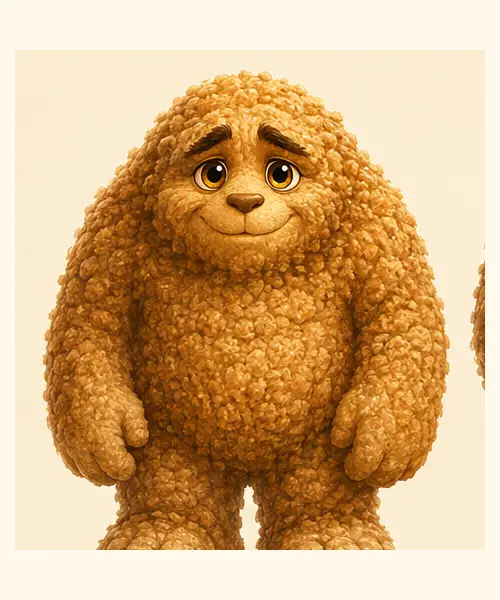
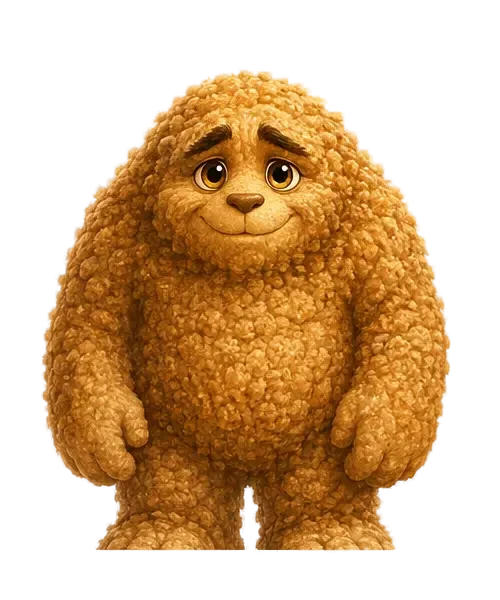
Polish world maps, backdrops, and character cutouts

Changed region(s): [[0.03, 0.06, 0.99, 0.93], [0.48, 0.81, 0.54, 0.93]]

diff --git a/src/styles/world-experience.css b/src/styles/world-experience.css
@@ -42,27 +42,53 @@
   height: 110%;
   object-fit: cover;
   object-position: center;
-  filter: saturate(1.05) brightness(.48) contrast(1.04);
-  animation: livingWorldDrift 28s ease-in-out infinite alternate;
+  filter: saturate(1.04) brightness(.56) contrast(1.04);
+  animation: livingWorldDrift 42s ease-in-out infinite alternate;
 }
-.living-world__veil { position: absolute; inset: 0; background: linear-gradient(180deg, rgba(3,8,18,.1), rgba(3,8,18,.66) 58%, rgba(3,8,18,.9)); }
-.living-world__glow,
-.living-world__drift { position: absolute; border-radius: 50%; filter: blur(22px); opacity: .38; pointer-events: none; }
-.living-world__glow { width: 30vw; height: 30vw; min-width: 240px; min-height: 240px; animation: livingGlow 9s ease-in-out infinite alternate; }
-.living-world__glow--one { left: 8%; top: 14%; }
-.living-world__glow--two { right: 4%; top: 48%; animation-delay: -4s; }
-.living-world__drift { width: 42vw; height: 8vw; min-height: 80px; filter: blur(30px); animation: livingDrift 18s linear infinite alternate; }
-.living-world__drift--one { left: -8%; top: 34%; }
-.living-world__drift--two { right: -10%; top: 68%; animation-delay: -8s; }
-.living-world--snackville .living-world__glow { background: rgba(255,113,143,.28); }
-.living-world--snackville .living-world__drift { background: rgba(255,221,167,.12); }
-.living-world--sandwich .living-world__glow { background: rgba(193,143,255,.28); }
-.living-world--sandwich .living-world__drift { background: rgba(255,242,218,.16); }
-.living-world--crumbhollow .living-world__glow { background: rgba(255,161,61,.26); }
-.living-world--crumbhollow .living-world__drift { height: 3px; min-height: 3px; border-radius: 0; background: rgba(63,211,205,.3); filter: blur(8px); }
-@keyframes livingWorldDrift { from { transform: scale(1.01) translate3d(-1.2%, -.5%, 0); } to { transform: scale(1.08) translate3d(1.2%, 1%, 0); } }
-@keyframes livingGlow { from { opacity: .22; transform: scale(.86); } to { opacity: .5; transform: scale(1.12); } }
-@keyframes livingDrift { from { transform: translate3d(-4%, 0, 0); opacity: .14; } to { transform: translate3d(6%, 0, 0); opacity: .42; } }
+.living-world__veil { position: absolute; inset: 0; z-index: 3; background: linear-gradient(180deg, rgba(3,8,18,.12), rgba(3,8,18,.57) 54%, rgba(3,8,18,.88)); }
+.living-world__atmosphere {
+  position: absolute;
+  inset: -12%;
+  z-index: 4;
+  opacity: .2;
+  background: linear-gradient(108deg, transparent 28%, rgba(255,244,214,.2) 46%, transparent 64%);
+  mix-blend-mode: screen;
+  animation: livingLight 24s ease-in-out infinite alternate;
+}
+.living-world__actors { position: absolute; inset: 0; z-index: 2; overflow: hidden; }
+.living-world__actor {
+  position: absolute;
+  display: block;
+  width: clamp(92px, 10vw, 170px);
+  height: auto;
+  opacity: 0;
+  filter: saturate(.92) brightness(.72) drop-shadow(0 12px 18px rgba(0,0,0,.48));
+  will-change: transform, opacity;
+}
+.living-world__actor--fly-left { top: 16%; right: -22%; width: clamp(130px,15vw,240px); animation: worldFlyLeft 34s linear infinite; animation-delay: -6s; }
+.living-world__actor--fly-left-late { top: 34%; right: -22%; width: clamp(112px,12vw,200px); animation: worldFlyLeft 41s linear infinite; animation-delay: -25s; }
+.living-world__actor--walk-right { bottom: 5%; left: -16%; animation: worldWalkRight 37s linear infinite; animation-delay: -9s; }
+.living-world__actor--walk-left { bottom: 7%; right: -16%; animation: worldWalkLeft 43s linear infinite; animation-delay: -28s; }
+@keyframes livingWorldDrift { from { transform: scale(1.015) translate3d(-.5%, -.25%, 0); } to { transform: scale(1.045) translate3d(.65%, .45%, 0); } }
+@keyframes livingLight { from { transform: translate3d(-8%,0,0); opacity: .1; } to { transform: translate3d(8%,0,0); opacity: .24; } }
+@keyframes worldFlyLeft {
+  0%,12% { transform: translate3d(0,0,0) rotate(-2deg); opacity: 0; }
+  16% { opacity: .62; }
+  40% { opacity: .62; }
+  46%,100% { transform: translate3d(-135vw,-9vh,0) rotate(3deg); opacity: 0; }
+}
+@keyframes worldWalkRight {
+  0%,15% { transform: translate3d(0,0,0); opacity: 0; }
+  19% { opacity: .56; }
+  45% { opacity: .56; }
+  51%,100% { transform: translate3d(132vw,0,0); opacity: 0; }
+}
+@keyframes worldWalkLeft {
+  0%,18% { transform: translate3d(0,0,0); opacity: 0; }
+  22% { opacity: .54; }
+  48% { opacity: .54; }
+  54%,100% { transform: translate3d(-132vw,0,0); opacity: 0; }
+}
 
 .snackville-experience { position: relative; isolation: isolate; }
 .snackville-experience .living-world { z-index: 0; opacity: .28; }
@@ -295,8 +321,12 @@
     height: min(100svh, 900px);
   }
   .living-world > img,
-  .living-world__glow,
-  .living-world__drift { animation: none; }
+  .living-world__atmosphere { animation: none; }
+  .living-world__actor { width: 82px; filter: saturate(.9) brightness(.66) drop-shadow(0 8px 12px rgba(0,0,0,.45)); }
+  .living-world__actor--secondary { display: none; }
+  .living-world__actor--fly-left { top: 24%; width: 118px; animation-duration: 38s; }
+  .living-world__actor--walk-left,
+  .living-world__actor--walk-right { bottom: 4%; animation-duration: 42s; }
   .world-experience__bar {
     position: relative;
     flex-wrap: wrap;
@@ -378,8 +408,9 @@
 
 @media (prefers-reduced-motion: reduce) {
   .living-world > img,
-  .living-world__glow,
-  .living-world__drift { animation: none; }
+  .living-world__atmosphere,
+  .living-world__actor { animation: none; }
+  .living-world__actor { display: none; }
 }
 
 @media (max-width: 390px) {

diff --git a/src/styles/cinematic.css b/src/styles/cinematic.css
@@ -690,26 +690,6 @@ a { -webkit-tap-highlight-color: transparent; }
   box-shadow: 0 26px 64px rgba(0,0,0,.38), 0 0 0 6px rgba(216,170,88,.04);
 }
 .map-f img { width: 100%; height: 100%; object-fit: cover; }
-.map-label-correction {
-  position: absolute;
-  left: var(--label-x);
-  top: var(--label-y);
-  z-index: 2;
-  display: grid;
-  align-content: center;
-  width: var(--label-width);
-  min-height: var(--label-height);
-  translate: -50% -50%;
-  padding: .35% .55%;
-  border: 1px solid rgba(91,52,25,.78);
-  border-radius: 999px;
-  background: rgba(239,210,151,.97);
-  color: #4e2b18;
-  box-shadow: inset 0 0 0 1px rgba(255,244,206,.55), 0 1px 3px rgba(25,12,5,.32);
-  text-align: center;
-  font: 700 clamp(3.2px,.68vw,10px)/1.05 var(--d);
-  pointer-events: none;
-}
 .map-f::after {
   content: '';
   position: absolute;
@@ -732,53 +712,15 @@ a { -webkit-tap-highlight-color: transparent; }
   border: 0;
   border-radius: 50%;
   background: transparent;
-  transition: scale .22s ease;
+  outline: 0 solid transparent;
+  outline-offset: -7px;
+  transition: outline-color .18s ease, outline-width .18s ease, background .18s ease;
 }
 .map-hotspot:hover,
-.map-hotspot.on {
-  scale: 1.08;
-}
-.map-hotspot__leader {
-  position: absolute;
-  left: 50%;
-  top: 50%;
-  width: 27px;
-  height: 1px;
-  transform: rotate(var(--marker-angle));
-  transform-origin: 0 50%;
-  background: linear-gradient(90deg, rgba(255,247,232,.82), rgba(255,247,232,.22));
-  filter: drop-shadow(0 1px 2px rgba(3,9,23,.9));
-}
-.map-hotspot__marker {
-  position: absolute;
-  left: 50%;
-  top: 50%;
-  display: grid;
-  place-items: center;
-  width: 26px;
-  height: 26px;
-  transform: translate(calc(-50% + var(--marker-shift)), calc(-50% - 19px));
-  border: 1px solid rgba(255,247,232,.92);
-  border-radius: 50%;
-  background: color-mix(in srgb, var(--hotspot-accent) 78%, #071126);
-  color: #fff8e9;
-  box-shadow: 0 2px 8px rgba(3,9,23,.82), 0 0 0 3px rgba(3,9,23,.5);
-  font: 700 10px/1 var(--u);
-}
-.map-hotspot:hover .map-hotspot__marker,
-.map-hotspot.on .map-hotspot__marker {
-  background: var(--gold-bright);
-  color: #081127;
-  box-shadow: 0 2px 8px rgba(3,9,23,.82), 0 0 0 3px rgba(3,9,23,.7), 0 0 0 5px rgba(243,208,138,.65), 0 0 22px rgba(243,208,138,.5);
-}
-.map-hotspot.seen .map-hotspot__marker {
-  outline: 2px solid rgba(255,247,232,.85);
-  outline-offset: 2px;
-}
-.map-hotspot.wow-spot .map-hotspot__marker { animation: mapWowPulse 2.6s ease-in-out infinite; }
-@keyframes mapWowPulse {
-  0%, 100% { box-shadow: 0 0 0 0 rgba(216,170,88,0); }
-  50% { box-shadow: 0 0 0 8px rgba(216,170,88,.22); }
+.map-hotspot:focus-visible {
+  outline-width: 2px;
+  outline-color: rgba(255,247,232,.9);
+  background: rgba(243,208,138,.12);
 }
 .map-pan-hint {
   display: none;
@@ -1275,19 +1217,6 @@ section.sec.wrap:has(> .panel .gu) { padding-top: clamp(54px, 6vw, 86px); }
   .map-scroll { border-radius: 7px; }
   .map-f { border-radius: 7px; }
   .map-hotspot { width: 48px; height: 48px; }
-  .map-f--fit .map-hotspot__leader { width: 16px; }
-  .map-f--fit .map-hotspot__marker {
-    width: 18px;
-    height: 18px;
-    transform: translate(calc(-50% + var(--marker-fit-shift)), calc(-50% - 12px));
-    border-width: 1px;
-    box-shadow: 0 1px 5px rgba(3,9,23,.9), 0 0 0 2px rgba(3,9,23,.55);
-    font-size: 8px;
-  }
-  .map-f--fit .map-hotspot:hover .map-hotspot__marker,
-  .map-f--fit .map-hotspot.on .map-hotspot__marker {
-    box-shadow: 0 1px 5px rgba(3,9,23,.9), 0 0 0 2px rgba(3,9,23,.65), 0 0 0 3px rgba(243,208,138,.65);
-  }
   .map-selection { grid-template-columns: 54px minmax(0,1fr); padding: 18px; border-radius: 8px; }
   .map-selection-number { width: 52px; height: 52px; font-size: 20px; }
   .map-selection h3 { font-size: 27px; }
@@ -1385,7 +1314,6 @@ section.sec.wrap:has(> .panel .gu) { padding-top: clamp(54px, 6vw, 86px); }
 
 @media (prefers-reduced-motion: reduce) {
   body::before { opacity: .45; }
-  .map-hotspot.wow-spot .map-hotspot__marker,
   .place-dialog-scrim,
   .place-dialog { animation: none; }
   .world-image img { animation: none; transition: none; }

diff --git a/src/components/WorldMap.jsx b/src/components/WorldMap.jsx
@@ -172,37 +172,17 @@ export function WorldMap({ places, mapSrc, mapAlt, mapWidth, mapHeight, eyebrow,
             style={{ aspectRatio: `${mapWidth} / ${mapHeight}`, width: fitMap ? "100%" : `${Number(mapWidth) * mapZoom}px` }}
           >
             <Img src={mapSrc} alt={mapAlt} fb="World map" width={mapWidth} height={mapHeight} />
-            {places.filter((place) => place.labelCorrection).map((place) => (
-              <span
-                key={`${place.id}-label-correction`}
-                className="map-label-correction"
-                style={{
-                  "--label-x": `${place.labelCorrection.x}%`,
-                  "--label-y": `${place.labelCorrection.y}%`,
-                  "--label-width": `${place.labelCorrection.width}%`,
-                  "--label-height": `${place.labelCorrection.height}%`,
-                }}
-                aria-hidden="true"
-              >
-                {place.labelCorrection.lines.map((line) => <span key={line}>{line}</span>)}
-              </span>
-            ))}
             {places.map((place) => (
               <button
                 key={place.id}
                 className={`map-hotspot ${selected.id === place.id ? "on" : ""} ${visited.has(place.id) ? "seen" : ""}`}
                 style={{
                   "--hotspot-x": `${place.x}%`, "--hotspot-y": `${place.y}%`, "--hotspot-accent": place.ink,
-                  "--marker-shift": place.x > 82 ? "-19px" : "19px",
-                  "--marker-fit-shift": place.x > 82 ? "-12px" : "12px",
-                  "--marker-angle": place.x > 82 ? "-135deg" : "-45deg",
                 }}
                 onClick={() => pick(place)}
                 aria-label={`Location ${place.n}: ${place.name}`}
                 aria-haspopup="dialog"
               >
-                <span className="map-hotspot__leader" aria-hidden="true" />
-                <span className="map-hotspot__marker" aria-hidden="true">{place.n}</span>
                 <span className="sr-only">Open {place.name}</span>
               </button>
             ))}

diff --git a/src/App.jsx b/src/App.jsx
@@ -404,7 +404,7 @@ function SnackvilleExperience({ onBackHome }) {
   return (
     <div ref={rootRef} className="snackville-experience" data-night="0">
       <a className="skip-link" href="#story">Skip to the story</a>
-      <LivingWorldBackdrop src="/images/worlds/snackville-cover.webp" variant="snackville" />
+      <LivingWorldBackdrop src="/images/worlds/snackville-environment.webp" variant="snackville" />
       {/* ═══ SKY — opacity written directly via ref in the scroll rAF loop,
           never through React state, so scrolling never re-renders the tree.
           See hooks/useScrollEngine.js. ═══ */}
@@ -582,11 +582,13 @@ export default function App() {
   if (view === "sandwich") {
     return (
       <WorldExperience
+        key="sandwich"
         worldClass="world-experience--sandwich"
         brandLabel="Wallace-Siedlarz Productions"
         title="Sandwich Kingdom"
         tagline="The floating sandwich-castle world above the clouds."
         coverSrc="/images/worlds/sandwich-cover.webp"
+        backgroundSrc="/images/worlds/sandwich-environment.webp"
         coverAlt="Sandwich Kingdom cover art — a floating sandwich castle above the clouds"
         story={{
           eyebrow: "Inside book six",
@@ -617,11 +619,13 @@ export default function App() {
   if (view === "crumbhollow") {
     return (
       <WorldExperience
+        key="crumbhollow"
         worldClass="world-experience--crumbhollow"
         brandLabel="Wallace-Siedlarz Productions"
         title="Crumbhollow"
         tagline="The hidden Pie-Rat village beneath Snackville."
         coverSrc="/images/worlds/crumbhollow-cover.webp"
+        backgroundSrc="/images/worlds/crumbhollow-environment.webp"
         coverAlt="Crumbhollow cover art — the hidden Pie-Rat village beneath Snackville"
         story={{
           eyebrow: "Beneath Snackville",

diff --git a/tests/content.test.js b/tests/content.test.js
@@ -102,7 +102,9 @@ test("each storyworld exposes its approved character cast", () => {
   for (const characters of [SNACKVILLE_CHARACTERS, CRUMBHOLLOW_CAST.people, SANDWICH_CAST.people]) {
     for (const person of characters) {
       assert.match(person.img, /^\/images\/characters\/.+\.webp$/);
-      assert.ok(existsSync(new URL(`../public${person.img}`, import.meta.url)), `${person.name} portrait exists`);
+      const portraitUrl = new URL(`../public${person.img}`, import.meta.url);
+      assert.ok(existsSync(portraitUrl), `${person.name} portrait exists`);
+      assert.ok(readFileSync(portraitUrl).includes(Buffer.from("ALPH")), `${person.name} portrait has real alpha transparency`);
       assert.ok(person.line.length > 30, `${person.name} has card copy`);
       assert.ok(person.bio.length > 60, `${person.name} has a full profile`);
       assert.ok(person.power.length > 25, `${person.name} has a power`);
@@ -141,6 +143,16 @@ test("map dialogs escape page stacking contexts", () => {
     assert.match(source, /createPortal/);
     assert.match(source, /document\.body/);
   }
+});
+
+test("map hotspots use the numbers printed in the original artwork", () => {
+  for (const file of ["MapHub.jsx", "WorldMap.jsx"]) {
+    const source = readFileSync(new URL(`../src/components/${file}`, import.meta.url), "utf8");
+    assert.doesNotMatch(source, /map-hotspot__marker/, `${file} does not paint duplicate location numbers`);
+    assert.doesNotMatch(source, /map-hotspot__leader/, `${file} does not draw extra marker leaders`);
+  }
+  const worldMap = readFileSync(new URL("../src/components/WorldMap.jsx", import.meta.url), "utf8");
+  assert.doesNotMatch(worldMap, /map-label-correction/, "Crumbhollow keeps the original illustration free of pasted label panels");
 });
 
 test("every map location has a signature effect, and no two are alike", () => {

diff --git a/src/components/LivingWorldBackdrop.jsx b/src/components/LivingWorldBackdrop.jsx
@@ -1,12 +1,37 @@
+const WORLD_ACTORS = {
+  snackville: [
+    { src: "/images/ambient/pepper-fly.webp", motion: "fly-left", secondary: false },
+    { src: "/images/ambient/choco-fly.webp", motion: "fly-left-late", secondary: true },
+  ],
+  crumbhollow: [
+    { src: "/images/ambient/grey-pie-rat-walk.webp", motion: "walk-right", secondary: false },
+    { src: "/images/ambient/woofer-walk.webp", motion: "walk-left", secondary: true },
+  ],
+  sandwich: [
+    { src: "/images/ambient/tomato-mouse-walk.webp", motion: "walk-left", secondary: false },
+    { src: "/images/ambient/sandwich-citizen-walk.webp", motion: "walk-right", secondary: true },
+  ],
+};
+
 export function LivingWorldBackdrop({ src, variant }) {
+  const actors = WORLD_ACTORS[variant] ?? [];
+
   return (
     <div className={`living-world living-world--${variant}`} aria-hidden="true">
       <img src={src} alt="" decoding="async" />
+      <div className="living-world__actors">
+        {actors.map((actor) => (
+          <img
+            key={actor.src}
+            className={`living-world__actor living-world__actor--${actor.motion}${actor.secondary ? " living-world__actor--secondary" : ""}`}
+            src={actor.src}
+            alt=""
+            decoding="async"
+          />
+        ))}
+      </div>
       <span className="living-world__veil" />
-      <span className="living-world__glow living-world__glow--one" />
-      <span className="living-world__glow living-world__glow--two" />
-      <span className="living-world__drift living-world__drift--one" />
-      <span className="living-world__drift living-world__drift--two" />
+      <span className="living-world__atmosphere" />
     </div>
   );
 }

diff --git a/src/components/WorldExperience.jsx b/src/components/WorldExperience.jsx
@@ -19,7 +19,7 @@ import { AMAZON_URL } from "../config.js";
  * App.jsx — see the note in styles/wow.css for why the reaction is an
  * attribute on a root rather than a transform on a wrapper.
  */
-export function WorldExperience({ worldClass, brandLabel, title, tagline, coverSrc, coverAlt, story, mapEyebrow, mapHeading, mapLead, places, mapSrc, mapAlt, mapWidth, mapHeight, fx, characterFeatures = [], book, onBackHome }) {
+export function WorldExperience({ worldClass, brandLabel, title, tagline, coverSrc, backgroundSrc, coverAlt, story, mapEyebrow, mapHeading, mapLead, places, mapSrc, mapAlt, mapWidth, mapHeight, fx, characterFeatures = [], book, onBackHome }) {
   const rootRef = useRef(null);
   const reactionTimer = useRef(null);
 
@@ -35,7 +35,7 @@ export function WorldExperience({ worldClass, brandLabel, title, tagline, coverS
 
   return (
     <div ref={rootRef} className={`world-experience ${worldClass}`}>
-      <LivingWorldBackdrop src={coverSrc} variant={worldClass.includes("crumbhollow") ? "crumbhollow" : "sandwich"} />
+      <LivingWorldBackdrop src={backgroundSrc || coverSrc} variant={worldClass.includes("crumbhollow") ? "crumbhollow" : "sandwich"} />
       <a className="skip-link" href="#world-map" onClick={(event) => jumpTo(event, "world-map")}>Skip to the map</a>
       <header className="world-experience__bar">
         <button className="world-experience__brand" onClick={onBackHome}>

diff --git a/src/components/MapHub.jsx b/src/components/MapHub.jsx
@@ -106,16 +106,11 @@ export function MapHub({ visitedPlaceIds, mark, onWow, chime }) {
                 className={`map-hotspot ${selected.id === place.id ? "on" : ""} ${visitedPlaceIds.has(place.id) ? "seen" : ""} ${place.wow ? "wow-spot" : ""}`}
                 style={{
                   "--hotspot-x": `${place.x}%`, "--hotspot-y": `${place.y}%`, "--hotspot-accent": place.ink,
-                  "--marker-shift": place.x > 82 ? "-19px" : "19px",
-                  "--marker-fit-shift": place.x > 82 ? "-12px" : "12px",
-                  "--marker-angle": place.x > 82 ? "-135deg" : "-45deg",
                 }}
                 onClick={() => pick(place)}
                 aria-label={`Location ${place.n}: ${place.name}`}
                 aria-haspopup="dialog"
               >
-                <span className="map-hotspot__leader" aria-hidden="true" />
-                <span className="map-hotspot__marker" aria-hidden="true">{place.n}</span>
                 <span className="sr-only">Open {place.name}</span>
               </button>
             ))}
